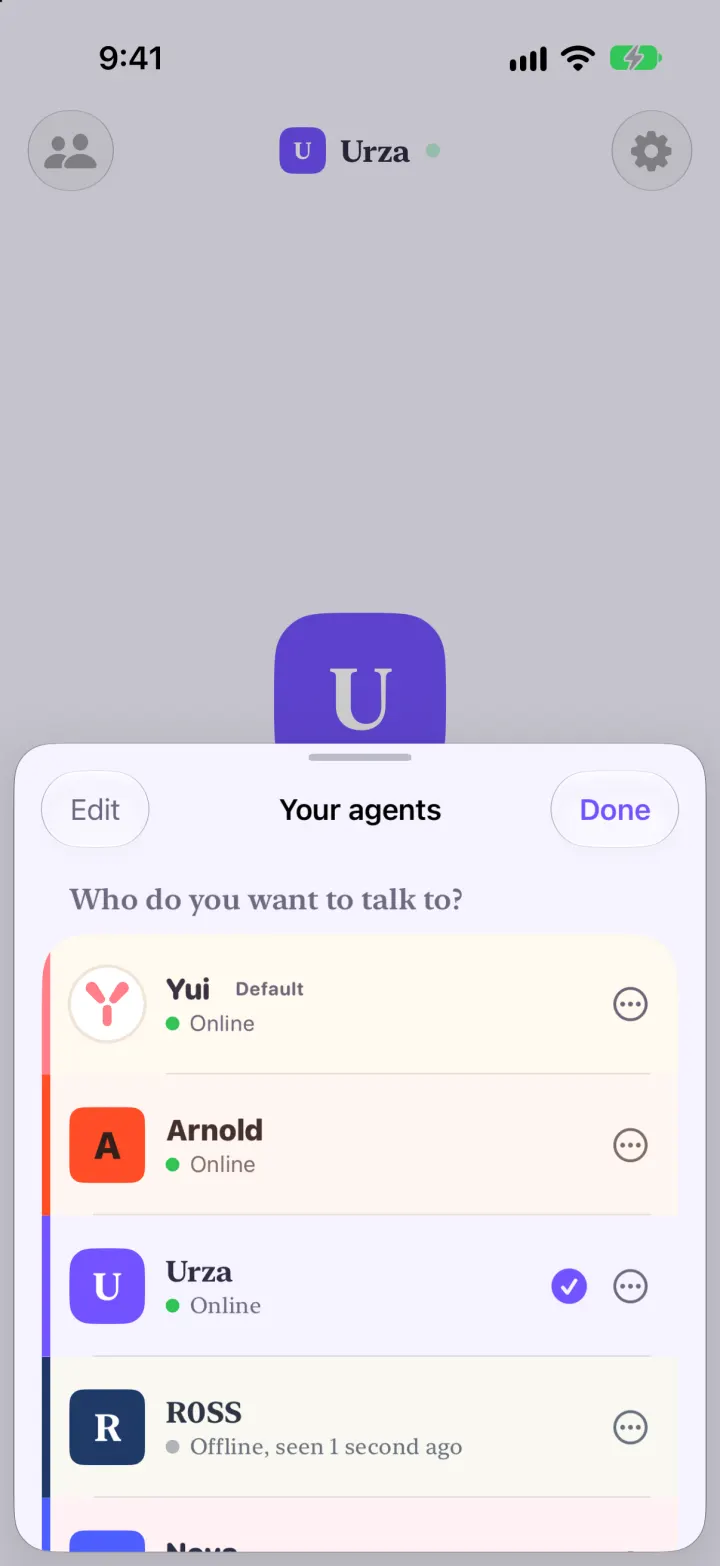
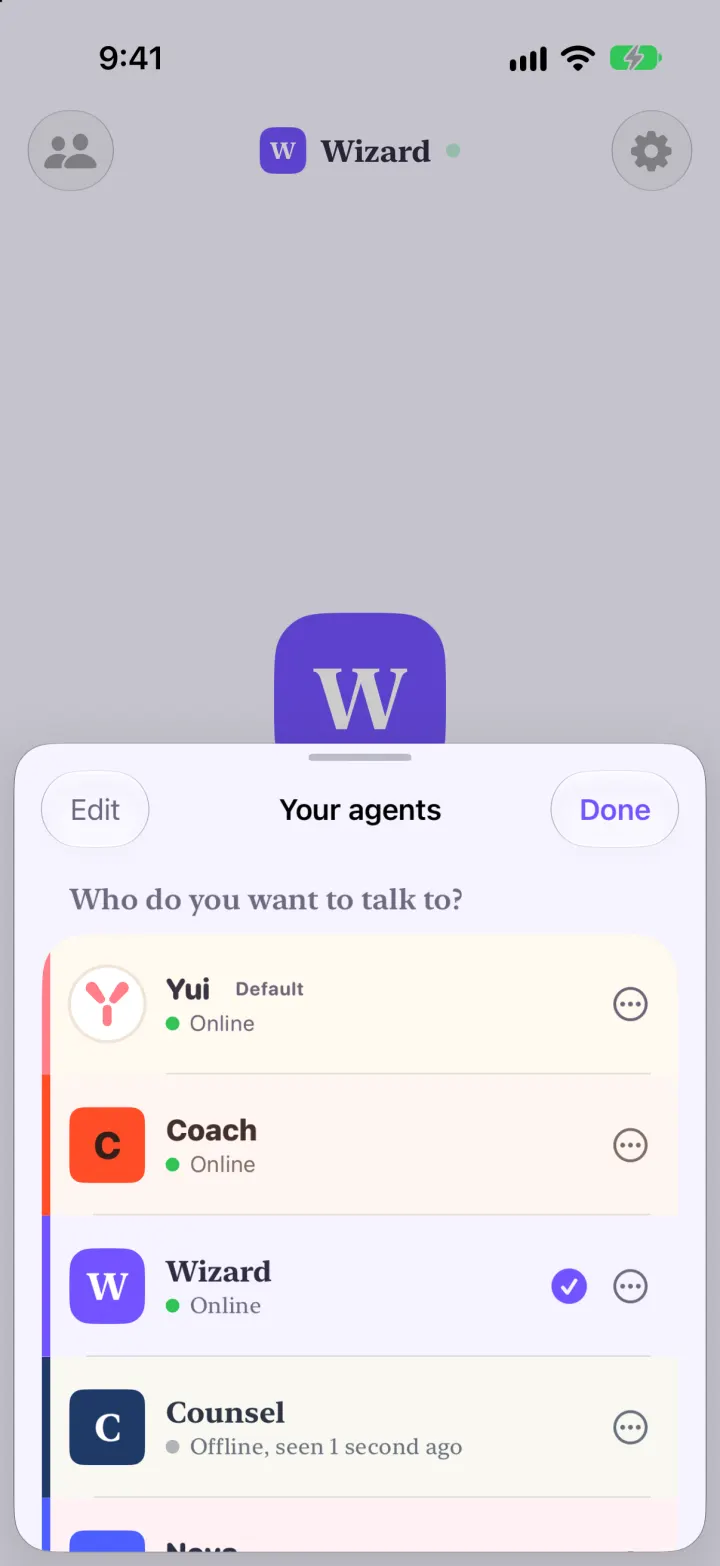
Looks: generic personality set names, screenshots without private names (YUI-20)

diff --git a/site/content/YL.md b/site/content/YL.md
@@ -373,7 +373,7 @@ ask "Publish the update?" "Yes, publish"|"Not yet"
 ### theme (core, not a preset)
 `theme [set] key=value...`. Restyles the agent's own look in the app: background, bubbles, accent, avatar chip, corner radius, type and motion, in light and dark, for every screen of its thread and its row in the agent list. Nothing renders on screen except a one-line note; the look is saved on the agent (`yui_agents.theme`, spec `AGENTS.md`) until the next theme line or the person changes it.
 
-- A **set name** starts fresh from that set: `theme autumn`. Sets: `yui coral peach sunset autumn lemon matcha forest mint ocean sky lavender berry candy midnight mono`, plus the agent sets `urza arnold monk hank luna r0ss`. `theme reset` goes back to the agent's own default (seeded from its name, so every agent looks different out of the box).
+- A **set name** starts fresh from that set: `theme autumn`. Sets: `yui coral peach sunset autumn lemon matcha forest mint ocean sky lavender berry candy midnight mono`, plus the personality sets `wizard coach zen studio night counsel`. `theme reset` goes back to the agent's own default (seeded from its name, so every agent looks different out of the box).
 - **Keys alone** change only what they say: `theme accent=#7B5CFF bg=cream radius=round`.
 - `accent=` a `#RRGGBB` hex or a set name used as a color. `bg=` a hex or `cream|paper|white|mist|sand|blush` (the light-mode paper; dark mode is derived from the accent).
 - `radius=round|soft|square`, `font=rounded|default|serif|mono`, `weight=regular|bold|heavy` (headings and names), `motion=bouncy|calm|snappy`.

diff --git a/spec/YL.md b/spec/YL.md
@@ -373,7 +373,7 @@ ask "Publish the update?" "Yes, publish"|"Not yet"
 ### theme (core, not a preset)
 `theme [set] key=value...`. Restyles the agent's own look in the app: background, bubbles, accent, avatar chip, corner radius, type and motion, in light and dark, for every screen of its thread and its row in the agent list. Nothing renders on screen except a one-line note; the look is saved on the agent (`yui_agents.theme`, spec `AGENTS.md`) until the next theme line or the person changes it.
 
-- A **set name** starts fresh from that set: `theme autumn`. Sets: `yui coral peach sunset autumn lemon matcha forest mint ocean sky lavender berry candy midnight mono`, plus the agent sets `urza arnold monk hank luna r0ss`. `theme reset` goes back to the agent's own default (seeded from its name, so every agent looks different out of the box).
+- A **set name** starts fresh from that set: `theme autumn`. Sets: `yui coral peach sunset autumn lemon matcha forest mint ocean sky lavender berry candy midnight mono`, plus the personality sets `wizard coach zen studio night counsel`. `theme reset` goes back to the agent's own default (seeded from its name, so every agent looks different out of the box).
 - **Keys alone** change only what they say: `theme accent=#7B5CFF bg=cream radius=round`.
 - `accent=` a `#RRGGBB` hex or a set name used as a color. `bg=` a hex or `cream|paper|white|mist|sand|blush` (the light-mode paper; dark mode is derived from the accent).
 - `radius=round|soft|square`, `font=rounded|default|serif|mono`, `weight=regular|bold|heavy` (headings and names), `motion=bouncy|calm|snappy`.

diff --git a/spec/AGENTS.md b/spec/AGENTS.md
@@ -157,7 +157,7 @@ Every agent has its own look, so you always know who you are talking to. While a
  "at": "2026-09-24T12:00:00.123+00:00", "by": "agent"}
 ```
 
-- Every key is optional. `preset` names a set (list in `YL.md`, "theme"); the other keys override it. An empty look is seeded from the handle, and an agent whose handle matches a set (`arnold`, `urza`, `r0ss`, ...) starts in that set.
+- Every key is optional. `preset` names a set (list in `YL.md`, "theme"); the other keys override it. An empty look is seeded from the handle, and an agent whose handle matches a set name (`coach`, `wizard`, ...) starts in that set.
 - `style` is the agent's style profile, the screens it prefers: `screen=chat|full`, `gallery=row|feed|row3d|grid`, `chart=line|bar|area|scatter|pie|donut`, `buttons=row|stack`. Renderers use it as their defaults, and the host plugin tells the agent its look and profile on every turn (Hermes `channel_prompt`).
 - `at` / `by` say when and who. An agent restyles itself with a YL `theme` line; the app applies it and saves it here through `yui-agents` `update`. A theme line older than `at` never overrides a newer pick, so replaying a thread is safe. The person picks a look in the agent's settings (`by: "user"`).
 - `yui-agents` cleans the object (known keys, known words, `#RRGGBB` hex) and drops the rest. `yui-connect` `session` and `heartbeat` return each agent's `theme`, so a restyle reaches the host within a heartbeat.
